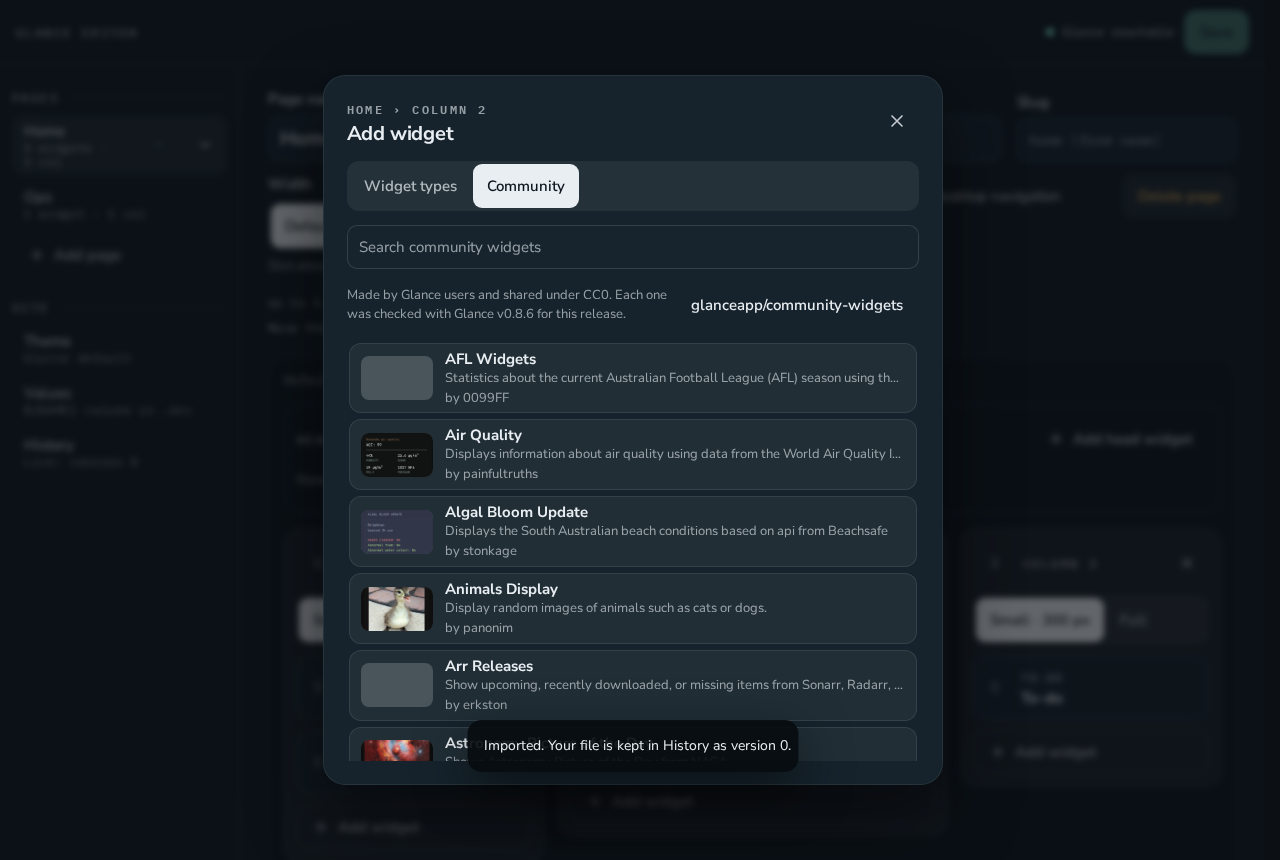
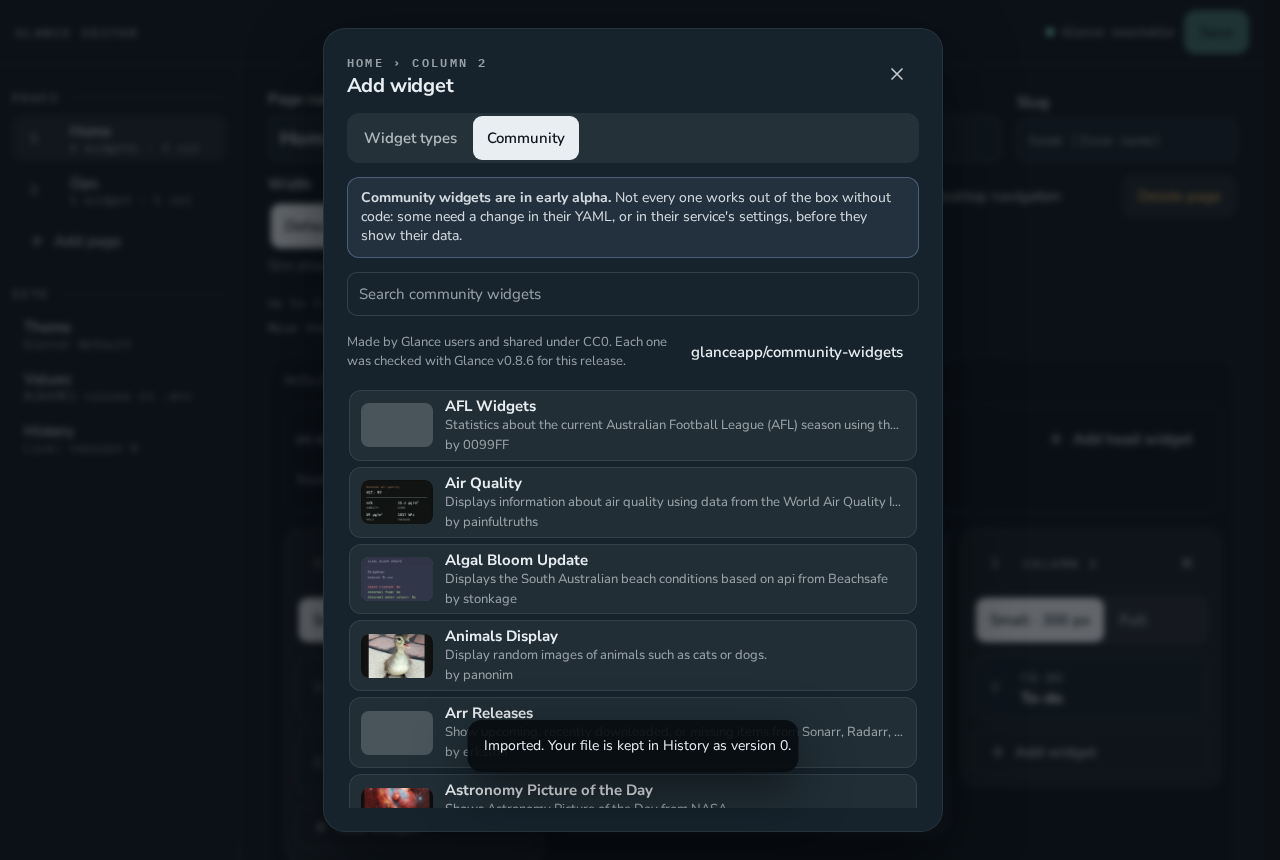
feat(community): mark community widgets early alpha (ADR-0033)
A note in Add widget → Community and in a community widget's settings,
in the Unraid template's overview and in the README: not every community
widget works out of the box without code.

diff --git a/test/e2e/widgets.spec.ts b/test/e2e/widgets.spec.ts
@@ -410,6 +410,8 @@ test.describe("Community widgets (ADR-0028)", () => {
     const sheet = page.getByRole("dialog", { name: "Add widget" });
     await sheet.getByRole("button", { name: "Community", exact: true }).click();
     await expect(sheet.getByText(/Made by Glance users and shared under CC0\. Each one was checked with Glance v0\.8\.6/)).toBeVisible();
+    // ADR-0033: marked early alpha above the list.
+    await expect(sheet.getByRole("note").filter({ hasText: "Community widgets are in early alpha." })).toContainText("Not every one works out of the box without code");
     await expect(sheet.getByRole("link", { name: "glanceapp/community-widgets" })).toHaveAttribute("href", "https://github.com/glanceapp/community-widgets");
     await expectAccessible(page, "community list");
     await expectTargets(page, "community list");
@@ -544,6 +546,10 @@ test.describe("Community widgets without YAML (ADR-0030)", () => {
     // Its settings: no form behind it, so no Discard; title and cache written into its YAML; its values.
     const ins = inspector(page);
     await expect(ins.getByText("This widget is kept as YAML. Its title, cache and values are here; everything else is in the YAML tab.")).toBeVisible();
+    const alpha = ins.getByRole("note").filter({ hasText: "Community widgets are in early alpha:" });
+    await expect(alpha).toContainText("this one may need a change in its YAML");
+    await alpha.scrollIntoViewIfNeeded();
+    await shot(page, "community-alpha-settings", { fullPage: false });
     await expect(ins.getByRole("button", { name: "Discard YAML override" })).toHaveCount(0);
     await ins.getByLabel("Title", { exact: true }).fill("My shows");
     await ins.getByLabel("Cache", { exact: true }).fill("30m");

diff --git a/apps/editor/src/lib/components/Inspector.svelte b/apps/editor/src/lib/components/Inspector.svelte
@@ -149,7 +149,8 @@
             <button type="button" class="btn" onclick={() => (app.insTab = "yaml")}>Open YAML</button></div>
         {:else}
           {#if yamlOnly}
-            <div class="notice">This widget is kept as YAML. Its title, cache and values are here; everything else is in the YAML tab.</div>
+            <div class="notice" role="note"><span><strong>Community widgets are in early alpha:</strong> this one may need a change in its YAML, or in its service's settings, before it works.</span>
+              <span>This widget is kept as YAML. Its title, cache and values are here; everything else is in the YAML tab.</span></div>
             <YamlWidgetSettings {app} {wref} {w} />
           {:else if override}
             <div class="notice">This widget is edited as YAML, so the form is read-only. Discarding the override returns it to the form values.

diff --git a/apps/editor/src/lib/components/CommunityWidgets.svelte b/apps/editor/src/lib/components/CommunityWidgets.svelte
@@ -204,6 +204,8 @@
     {/if}
   {/if}
 {:else}
+  <!-- ADR-0033: the PM asked for this note (2026-10-27). -->
+  <div class="notice" role="note"><span><strong>Community widgets are in early alpha.</strong> Not every one works out of the box without code: some need a change in their YAML, or in their service's settings, before they show their data.</span></div>
   <label class="sr" for="cwq">Search community widgets</label>
   <input id="cwq" class="input" placeholder="Search community widgets" bind:value={query} autocomplete="off" />
   <div class="row wrap between" style="gap: 6px">

diff --git a/docs/handoff.md b/docs/handoff.md
@@ -1,7 +1,7 @@
 # Handoff
 
 The single place to see where the project stands. Updated at the end of every work session and every PR.
-Last updated: 2026-10-26 (v1.4.0 released: ADR-0032, a community widget tried against its service).
+Last updated: 2026-10-27 (ADR-0033: community widgets marked early alpha, at the PM's request).
 
 ## Current state
 - **Released:** **v1.4.0** is `:latest` (`ghcr.io/gcarstoiu/glance-editor`, public). Earlier: v1.0.0, v1.0.1, v1.1.0, v1.2.0,
@@ -44,6 +44,8 @@ Last updated: 2026-10-26 (v1.4.0 released: ADR-0032, a community widget tried ag
   159 of 165 can be added (6 refused with the reason). Live check: `test/community-live.sh`.
 - ADR-0031 drag and drop: links and groups between groups and Bookmarks widgets, widgets into and out of groups and
   split columns, pages, slides; a finger on the grip drags too; Move to… for touch and keyboard.
+- ADR-0033: community widgets marked early alpha in Add widget → Community, a community widget's settings, the Unraid
+  template's overview and the README.
 - ADR-0032 (v1.4.0): a community widget's settings try it against its service, as Glance does, and say why
   it failed in plain words; Uptime Kuma's address and slug are cut out of pasted page addresses; a value a widget needs
   can't be stored empty.
@@ -75,6 +77,11 @@ Nothing below may be built on until you decide. ★ = affects user experience.
 - ★ **ADR-0025 leftover:** no assets file list in the editor yet (say if wanted).
 - ★ **ADR-0026 leftover:** Glance's two default themes stay in the dashboard's theme picker (not answered;
   recommended; hiding them needs CSS).
+
+## Decided on 2026-10-27 (via chat)
+| ADR | Outcome |
+| --- | ------- |
+| [0033](adr/0033-community-widgets-early-alpha.md) | **Community widgets marked early alpha** in the editor and the app's overview; released at once (the PM asked to push and release) |
 
 ## Decided on 2026-10-26 (via chat)
 | ADR | Outcome |
@@ -246,6 +253,10 @@ Nothing below may be built on until you decide. ★ = affects user experience.
    image, review, PR); a newer Glance pin (ADR-0006) when one is released.
 
 ## Session log
+- 2026-10-27: the PM asked whether the Docker proxy differs on a Synology ("connection refused"). Answered in chat: the
+  pinned proxy's port published on 127.0.0.1 only refuses other machines (tested); without IPv6 it can't open its port
+  (`DISABLE_IPV6=1`). The README has no how-to for a proxy on another server yet (offered, not asked for).
+- 2026-10-27: ADR-0033 (community widgets marked early alpha), asked for by the PM, built on `feat/community-alpha-note`.
 - 2026-10-26: v1.4.0 released (notes approved by the PM): `:1.4.0` and `:latest` published; `test/all-in-one.sh`
   passed on the published image, and `/api/widget/try` inside it gave "answered", "invalid response JSON" and
   "connection refused" for a JSON address, a web page and a closed port.

diff --git a/docs/adr/0033-community-widgets-early-alpha.md b/docs/adr/0033-community-widgets-early-alpha.md
@@ -1,0 +1,29 @@
+# 0033. Community widgets marked early alpha
+
+- **Status:** accepted: asked for by the PM, 2026-10-27 (via chat), to be released at once.
+- **Date:** 2026-10-27
+- **Decider:** PM
+- **UX impact:** yes: a note in the editor and in the app's overview.
+
+## Context
+- Community widgets are set up with fields since ADR-0030, and tried against their service since ADR-0032. Each
+  widget's real data isn't verified (ADR-0030); ADR-0032 was tested with stand-ins. The PM's Uptime Kuma widget
+  failed at first (ADR-0032).
+- The PM asked for a clear note, in the app's overview and in the editor, that this part is in early alpha and may not
+  work out of the box without code.
+
+## Decision
+The wording and the places are Claude's; the PM can change either.
+- **Add widget → Community**, above the search: "**Community widgets are in early alpha.** Not every one works out of
+  the box without code: some need a change in their YAML, or in their service's settings, before they show their data."
+- **A community widget's settings** (a widget kept as YAML with no form behind it), in the notice at the top:
+  "**Community widgets are in early alpha:** this one may need a change in its YAML, or in its service's settings,
+  before it works."
+- **The Unraid template's overview** (the release's template and the Community Apps repository): "Widgets shared by
+  Glance users can be added from Community too; that part is in early alpha, and not every one works out of the box
+  without code."
+- **README**: the community widgets item is titled "(early alpha)" and says the same.
+
+## Consequences
+- Both editor notes have `role="note"`; the UI tests check them at 1280 px and 390 px, with axe.
+- Remove or change the notes when the PM decides that community widgets are no longer alpha.

diff --git a/README.md b/README.md
@@ -42,12 +42,13 @@ Install it once, and it's all there.
   work as well: point a widget's Docker socket path at a read-only proxy there (`tcp://<server>:2375`).
   **Fill in icons and links** does it for all of them at once: Unraid's icons (downloaded) and web UI addresses,
   library icons by image name, and tidy names.
-- **Community widgets.** Add any of the widgets Glance users share in
+- **Community widgets (early alpha).** Add any of the widgets Glance users share in
   [glanceapp/community-widgets](https://github.com/glanceapp/community-widgets) from Add widget → Community: search,
   preview, pick a variant, fill in labelled fields for what it needs (an address, a key, a user name, a location;
-  options under More options), add. No YAML: its title, cache and values stay editable in its settings, which also say
-  whether its service answers, and why not in plain words. Each one is checked with the pinned Glance for every
-  release, and set up through the editor in a test container.
+  options under More options), add. Its title, cache and values stay editable in its settings, which also say whether
+  its service answers, and why not in plain words. **This part is in early alpha:** not every community widget works
+  out of the box without code; some need a change in their YAML, or in their service's settings. Each one is checked
+  with the pinned Glance for every release, and set up through the editor in a test container.
 - **Values** for `${VARIABLES}` (addresses, keys, passwords) are set in the editor and kept in `.env` next to glance.yml,
   out of glance.yml and History.
 - **Icon finder** for bookmarks, monitors and containers. It searches Simple Icons, selfh.st Icons, Dashboard Icons

diff --git a/docs/adr/README.md b/docs/adr/README.md
@@ -51,3 +51,4 @@ One file per decision: `NNNN-short-title.md`, copied from [0000-template.md](000
 | [0030](0030-community-widgets-without-code.md) | Every community widget set up with fields, without YAML | accepted (PM, 2026-10-26) | **yes** |
 | [0031](0031-drag-and-drop-everywhere.md) | Drag and drop for bookmarks, and simpler moving everywhere | accepted (PM, 2026-10-26) | **yes** |
 | [0032](0032-try-a-widget-against-its-service.md) | Try a widget against its service, and tidy pasted page addresses | accepted (PM, 2026-10-26) | **yes** |
+| [0033](0033-community-widgets-early-alpha.md) | Community widgets marked early alpha | accepted (PM, 2026-10-27) | **yes** |

diff --git a/CHANGELOG.md b/CHANGELOG.md
@@ -4,6 +4,10 @@ All notable changes are recorded here. The format follows Keep a Changelog; vers
 (process: docs/adr/0007-versioning-and-release-notes.md, accepted).
 
 ## [Unreleased]
+### Changed
+- **Community widgets are marked early alpha.** Add widget → Community and a community widget's settings say so, and
+  so does the Unraid template's overview: not every community widget works out of the box without code; some need a
+  change in their YAML, or in their service's settings.
 
 ## [1.4.0] - 2026-10-26
 ### Added
